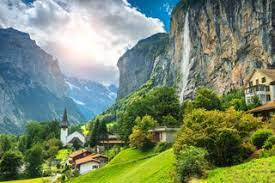
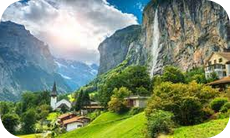
Horizontal card done

diff --git a/src/screens/4- Home/Home.jsx b/src/screens/4- Home/Home.jsx
@@ -20,6 +20,13 @@ const HorizontalCardData = [
     price: 'from $826',
     rating: '4.5',
   },
+  {
+    id: 'bd7acbea-1343-46c2-aed5-dfgfdg',
+    image: require('../../assets/himalias.png'),
+    title: 'Himalayan',
+    price: 'from $499',
+    rating: '4.9',
+  },
 ];
 const Home = () => {
   return (
@@ -42,7 +49,7 @@ const Home = () => {
 
       <View style={{flex: 2, marginHorizontal: 15}}>
         <Text style={styles.cardHeading}>Popular Locations</Text>
-        <SafeAreaView>
+        <View>
           <FlatList
             data={HorizontalCardData}
             horizontal
@@ -56,10 +63,11 @@ const Home = () => {
               />
             )}
           />
-        </SafeAreaView>
-        <HorizentalCard />
+        </View>
       </View>
-      <View style={{flex: 3, backgroundColor: 'blue'}}></View>
+      <View style={{flex: 3, marginHorizontal: 15, marginTop: 10}}>
+        <Text style={styles.cardHeading}>Popular Locations</Text>
+      </View>
     </View>
   );
 };

diff --git a/src/components/HorizentalCard/HorizentalCard.jsx b/src/components/HorizentalCard/HorizentalCard.jsx
@@ -10,10 +10,7 @@ import {
 const HorizentalCard = props => {
   return (
     <TouchableOpacity style={{margin: 10}}>
-      <ImageBackground
-        style={styles.backGroundStyle}
-        resizeMode="cover"
-        source={props.image}>
+      <ImageBackground style={styles.backGroundStyle} source={props.image}>
         <View style={styles.textView}>
           <View style={{marginBottom: 10, marginStart: 10}}>
             <Text style={styles.cardHeading}>{props.title}</Text>
@@ -53,7 +50,8 @@ const styles = StyleSheet.create({
     alignItems: 'center',
   },
   backGroundStyle: {
-    borderRadius: 50,
+    resizeMode: 'contain',
+    borderRadius: 25,
     height: 138,
     width: 230,
     display: 'flex',
